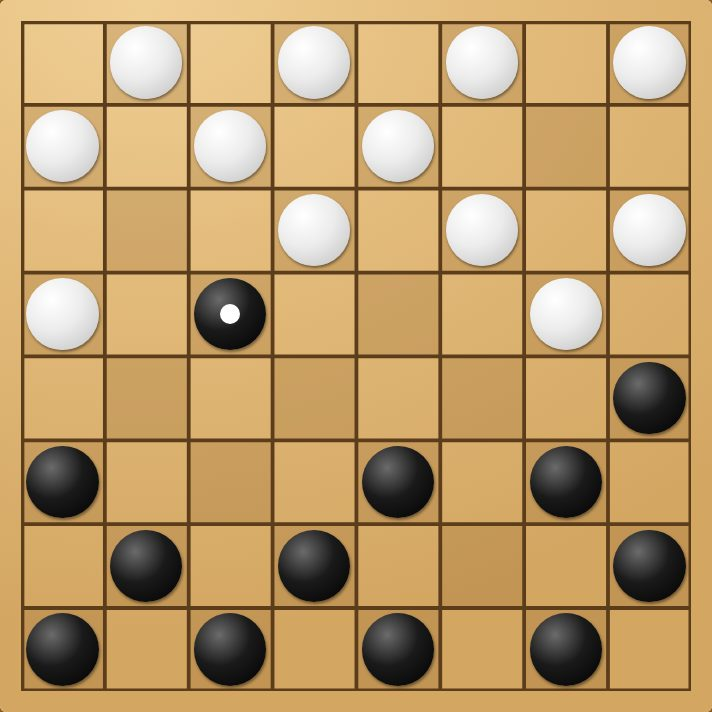
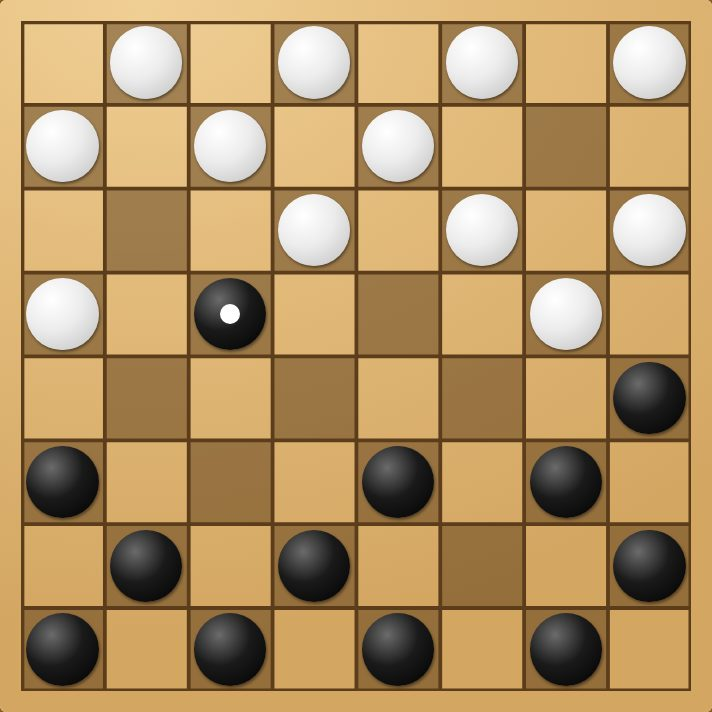
Give a square in play its own colour, so Checkers can be read
John, after the border fix: "Yes fix the checkers issues you mentioned." The
dark squares of Checkers ARE the board — every piece stands on one and every
move runs along them — and they were drawn as `theme.frame` at 22% opacity,
which came out at a contrast of 1.24 on kaya and 1.06 on sumi. The comment
above them said "shaded so they read at a glance"; they did not read at all,
and at 96px a Checkers thumbnail was a plain wood grid.

THE MECHANISM WAS WRONG, NOT THE NUMBER. `frame` is chosen to edge the board
from outside it, so on the extreme themes it already sits at the surface's own
end of the scale: near-black ink under a near-black surface, pale grey-beige
under near-white paper. No opacity of it could have separated them, because
there was no room left to move in. It also tied the rim to the squares, which
the border work had just made worse by making the rim more visible.

So `playSquare`, per theme, required by `BoardThemeTokens` — a missing one does
not compile, checked by removing one. And the DIRECTION is part of what each
theme states: darker on the light boards, LIGHTER on sumi and shinkaya, where
there is no darker to be.

That direction is a finding, not a preference. Darkening shinkaya read fine as
checkering and buried the black pieces standing on it at 1.16 — worse than the
faintness being fixed. Both halves have to hold.

Contrast between a square in play and a bare one, measured off the rendered
[…]

Changed region(s): [[0.0309, 0.0309, 0.9888, 0.9888], [0.618, 0.4944, 0.7416, 0.618]]

diff --git a/src/components/board/Board.constants.test.ts b/src/components/board/Board.constants.test.ts
@@ -1,0 +1,109 @@
+import { describe, expect, it } from "vitest";
+
+import { BOARD_THEMES, DEFAULT_APPEARANCE, STONE_SETS } from "./Board.constants";
+
+/**
+ * Whether a board can actually be READ, in numbers.
+ *
+ * Checkers is the reason this exists. Its dark squares are the whole board —
+ * every piece stands on one and every move runs along them — and they were
+ * drawn as the frame colour at 22% opacity, which came out at a contrast of
+ * 1.24 on kaya and 1.06 on sumi. That is to say: invisible. It shipped that
+ * way for months and nothing failed, because nothing measured it.
+ *
+ * A colour is a judgement and a test cannot make it. What a test CAN do is
+ * refuse a judgement that has stopped being legible, which is the failure
+ * that actually happened — so the floors below sit well under the values the
+ * themes were tuned to and well over the ones that shipped. They catch a
+ * theme going invisible, not a theme being restyled.
+ */
+
+/** WCAG relative luminance, the standard curve. */
+function channel(value: number): number {
+  const s = value / 255;
+  return s <= 0.04045 ? s / 12.92 : ((s + 0.055) / 1.055) ** 2.4;
+}
+
+function luminance([r, g, b]: RGB): number {
+  return 0.2126 * channel(r) + 0.7152 * channel(g) + 0.0722 * channel(b);
+}
+
+function contrast(a: RGB, b: RGB): number {
+  const [hi, lo] = [luminance(a), luminance(b)].sort((x, y) => y - x);
+  return (hi + 0.05) / (lo + 0.05);
+}
+
+type RGB = [number, number, number];
+
+/** Every `#rrggbb` in a gradient string, in the order it paints. */
+function stops(css: string): RGB[] {
+  return [...css.matchAll(/#([0-9a-f]{6})\b/gi)].map(([, hex]) => [
+    Number.parseInt(hex.slice(0, 2), 16),
+    Number.parseInt(hex.slice(2, 4), 16),
+    Number.parseInt(hex.slice(4, 6), 16),
+  ]);
+}
+
+/** An `rgba(r, g, b, a)` fill laid over a colour, as the browser composites it. */
+function over(fill: string, base: RGB): RGB {
+  const parts = fill.match(/rgba?\(([^)]+)\)/);
+  if (parts === null) throw new Error(`not an rgba fill: ${fill}`);
+  const [r, g, b, alpha = 1] = parts[1].split(",").map((n) => Number(n.trim()));
+  return [r, g, b].map((c, i) => Math.round(base[i] + alpha * (c - base[i]))) as RGB;
+}
+
+const THEMES = Object.entries(BOARD_THEMES);
+
+describe("a square in play reads against the rest of the board", () => {
+  /*
+   * Every stop of the surface gradient, not just one. A board is lit from a
+   * corner, so a fill that separates at the light end can close up at the
+   * dark end, and a player looks at the whole board at once.
+   */
+  it.each(THEMES)("%s", (_name, theme) => {
+    for (const stop of stops(theme.surface)) {
+      expect(contrast(over(theme.playSquare, stop), stop)).toBeGreaterThan(1.7);
+    }
+  });
+
+  it("is not the frame colour, which is a rim and cannot do this job", () => {
+    // On the two extreme boards the frame is already at the surface's own end
+    // of the scale, so no opacity of it could ever have separated them.
+    for (const [, theme] of THEMES) expect(theme.playSquare).not.toBe(theme.frame);
+  });
+});
+
+describe("a stone still reads on the square it stands on", () => {
+  /*
+   * The regression this caught: darkening shinkaya's squares made the
+   * checkering plain and buried the black pieces on it at 1.16. Both halves
+   * have to hold, which is why a board can need a LIGHTER square in play.
+   *
+   * THE DEFAULT STONES ONLY, and the limit is worth stating rather than
+   * leaving to be discovered. A theme and a stone set are two independent
+   * choices, so there are twenty-five pairs, and this token is one half of
+   * one of them — it cannot answer for the other. The worst pair today is
+   * jade on sumi, where the black stone is a dark green on ink: 1.27 on a
+   * square in play, and 1.66 on a bare one, so it was already the weakest
+   * thing on that board before any of this. Recorded here as a number
+   * somebody measured rather than as a silent pass, and left for its own
+   * ticket: mending it means changing a stone set, which reaches every game.
+   */
+  const stones = STONE_SETS[DEFAULT_APPEARANCE.stoneSet];
+
+  it.each(THEMES)("%s", (_name, theme) => {
+    for (const stop of stops(theme.surface)) {
+      const square = over(theme.playSquare, stop);
+      for (const colour of [stones.black, stones.white]) {
+        /*
+         * The stone's BULK — the middle stop, which a radial gradient gives
+         * most of the face to. Not the last stop: that is the shaded rim
+         * where the stone turns away, and judging a white stone by its own
+         * shadow fails every light board for the wrong reason.
+         */
+        const body = (stops(colour)[1] ?? stops(colour)[0]) as RGB;
+        expect(contrast(body, square)).toBeGreaterThan(1.4);
+      }
+    }
+  });
+});

diff --git a/src/components/board/board.types.ts b/src/components/board/board.types.ts
@@ -51,6 +51,33 @@ export type BoardThemeTokens = {
   surface: string;
   /** Sits under `surface` to give the wood an edge and a shadow. */
   frame: string;
+  /**
+   * The squares in play, on a board where only half of them are: the dark
+   * squares of checkers. Laid over `surface`, so give it an alpha and the
+   * wood still shows through.
+   *
+   * Its own token rather than the frame at a low opacity, which is what this
+   * used to be. A rim colour and a playing square answer different questions,
+   * and borrowing one for the other tied them together — so the rim could not
+   * be changed without changing the board, and the board could not be made to
+   * read without thickening the rim.
+   *
+   * It also could not work. `frame` is chosen to stand against the surface
+   * from OUTSIDE it, which on the two extreme boards means it is already the
+   * same end of the scale: near-black ink under a near-black surface, pale
+   * grey-beige under near-white paper. Measured at 22%, sumi came out at a
+   * contrast of 1.06 and washi at 1.09 — that is to say, invisible, at any
+   * opacity you like, because there was no room left to move in.
+   *
+   * So it is per theme and stated, never derived — and the direction is part
+   * of what is stated. A square in play steps AWAY from the surface whichever
+   * way there is room: darker on the light boards, and LIGHTER on `sumi` and
+   * `shinkaya`, where there is no darker left to move into. Reaching for
+   * darker on the dark ones is how the black pieces got lost — measured at
+   * 1.16 against their own square on shinkaya, worse than the fault being
+   * fixed. Both halves have to read: the checkering, and the pieces on it.
+   */
+  playSquare: string;
   line: string;
   star: string;
   coordinate: string;

diff --git a/src/components/board/Board.constants.ts b/src/components/board/Board.constants.ts
@@ -19,6 +19,7 @@ export const BOARD_THEMES = {
     surface:
       "radial-gradient(120% 90% at 20% 0%, #f0cf95 0%, #e2ba7a 45%, #d3a662 100%)",
     frame: "#8a5a24",
+    playSquare: "rgba(74, 44, 14, 0.45)",
     line: "#5b3d1c",
     star: "#5b3d1c",
     coordinate: "#7c5a30",
@@ -31,6 +32,11 @@ export const BOARD_THEMES = {
     surface:
       "radial-gradient(120% 90% at 25% 0%, #a9743f 0%, #8d5c30 50%, #714825 100%)",
     frame: "#40260f",
+    // Lighter, like sumi: this wood is dark enough that a darker square
+    // swallowed the black pieces standing on it (measured at 1.16).
+    // Strong enough to hold at the LIGHT corner of the gradient too,
+    // where a paler fill closed up to 1.62 and only mid-board looked fine.
+    playSquare: "rgba(226, 214, 188, 0.62)",
     line: "#2e1b0c",
     star: "#2e1b0c",
     coordinate: "#e8d3b6",
@@ -43,6 +49,7 @@ export const BOARD_THEMES = {
     surface:
       "radial-gradient(130% 100% at 15% 0%, #fbf7ee 0%, #f2ebdc 55%, #e7dcc6 100%)",
     frame: "#c8bda4",
+    playSquare: "rgba(110, 104, 90, 0.52)",
     line: "#6b6152",
     star: "#6b6152",
     coordinate: "#8b8172",
@@ -55,6 +62,8 @@ export const BOARD_THEMES = {
     surface:
       "radial-gradient(130% 100% at 20% 0%, #2c2f36 0%, #1e2127 55%, #14161b 100%)",
     frame: "#0b0d10",
+    // Lighter, not darker: on ink there is no darker left to move into.
+    playSquare: "rgba(150, 158, 172, 0.40)",
     line: "#6f7681",
     star: "#8b93a0",
     coordinate: "#9aa2af",
@@ -67,6 +76,7 @@ export const BOARD_THEMES = {
     surface:
       "radial-gradient(130% 100% at 20% 0%, #9cb87a 0%, #82a05f 55%, #6a884a 100%)",
     frame: "#3f5228",
+    playSquare: "rgba(35, 55, 20, 0.50)",
     line: "#33421f",
     star: "#33421f",
     coordinate: "#e9f0dc",

diff --git a/src/components/board/BoardLines.tsx b/src/components/board/BoardLines.tsx
@@ -61,13 +61,23 @@ export function BoardLines({
       aria-hidden="true"
       style={rhombus ? { transform: `translateY(16.667%) skewX(${(Math.atan(0.5) * 180) / Math.PI}deg) scale(${1 / 1.5})`, transformOrigin: "top left" } : undefined}
     >
-      {/* Checkers: the dark squares are the ones in play, shaded so they read at a glance. */}
+      {/*
+        * Checkers: the dark squares are the ones in play, shaded so they read
+        * at a glance — which is the whole board here, since every piece stands
+        * on one and every move runs along them.
+        *
+        * From `playSquare`, the theme's own token for exactly this. It used to
+        * be `frame` at 22%, and that did not read: a contrast of 1.24 on kaya
+        * and 1.06 on sumi, where a plain square and a square in play were the
+        * same colour to the eye. See `playSquare` in board.types.ts for why no
+        * opacity on the frame could have fixed it.
+        */}
       {checkered ? (
         <g aria-hidden="true">
           {Array.from({ length: size }, (_, row) =>
             Array.from({ length: size }, (_, col) =>
               (row + col) % 2 === 1 ? (
-                <rect key={`d${row}-${col}`} x={col} y={row} width={1} height={1} fill={theme.frame} opacity={0.22} />
+                <rect key={`d${row}-${col}`} x={col} y={row} width={1} height={1} fill={theme.playSquare} />
               ) : null,
             ),
           )}
